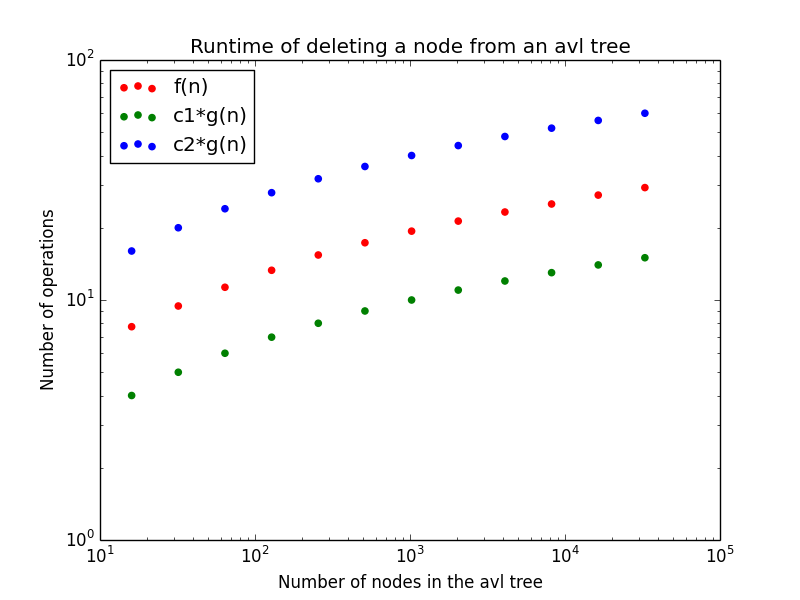
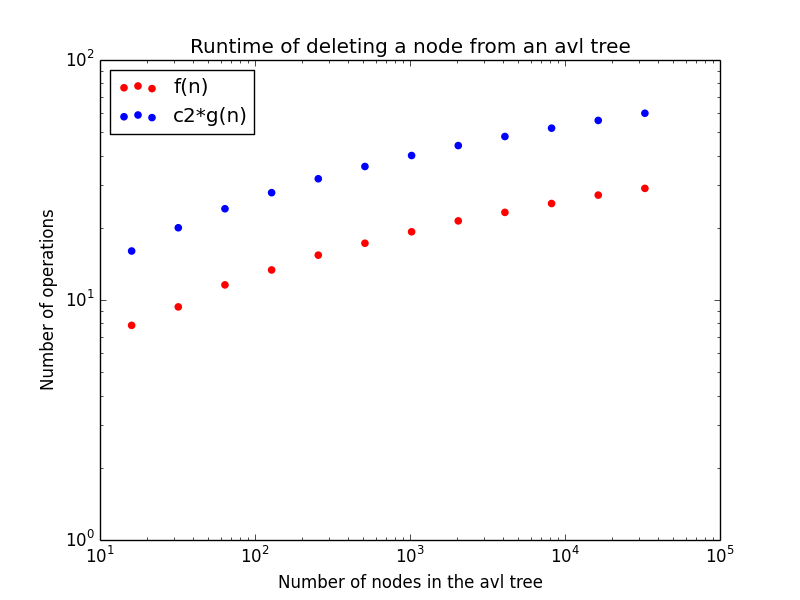
finished rough numerical characterization

diff --git a/project/final_report.tex b/project/final_report.tex
@@ -1,5 +1,7 @@
 \documentclass[12pt]{article}
 
+\usepackage{graphicx}
+
 \title{CSCI 5454 Final Project: AVL Tree}
 \author{Robert Werthman}
 \date{}
@@ -23,8 +25,8 @@ after each operation, like an insertion or deletion, on the tree the heights of
 each node's children differ by at most 1.  The height of a node is the number of
 nodes in the longest path from a root node to it.  For instance, a root node
 would have a height of 0 while its parent node, if the root node was its only child, would
-have a height of 1.  An AVL tree is ``self-balancing'' after each operation on
-the tree the heights and balance of the nodes are readjusted by the tree,
+have a height of 1.  An AVL tree is ``self-balancing'' because after each
+operation on the tree the heights and balance of the nodes are readjusted by the tree,
 itself \cite{wiki:avl}.
 
 \addcontentsline{toc}{subsection}{What problems does it solve?}
@@ -64,12 +66,13 @@ trees could be used instead.
 To show the numerical characterization of the space and time performance of an
 AVL tree, I created a randomized input generator to show the runtime and space
 of the three operations that can be performed on the AVL tree: insertion,
-deletion, and search.  I ran 12 iterations for each of these operations, varying
-the number of nodes $n$ in the trees by a factor of 2.  $n$ takes on all of
-the values in the set $\{2^4,\,2^5,\ldots,2^{16}\}$ for each operation.  The
-keys for each of the nodes in the $n$ node tree were randomly chosen from the
-set $\{0,\,,1,\ldots,2^n$ and then inserted into the tree to create a tree of
-size $n$.\\
+deletion, and search.  I ran 12 iterations for each of these tree operations,
+varying the number of nodes $n$ in the trees by a factor of 2.  I ran each of
+these iterations 50 times each to find the average number of operations given a
+value of $n$.  $n$ takes on all of the values in the set
+$\{2^4,\,2^5,\ldots,2^{16}\}$ for each tree operation.
+The keys for each of the nodes in the $n$ node tree were randomly chosen from 
+the set $\{0,\,,1,\ldots,2^n$ and then inserted into the tree to create a tree of size $n$.\\
 \\
 Once the tree was generated for an iteration, I then chose a random key
 from the set of keys that were already in the tree, and I either searched for
@@ -83,19 +86,82 @@ iteration.\\
 \\
 Once all the iterations were complete for a specific operation, I took the $n$
 for each iteration and the values of the global variables for each iteration and
-graphed them as a function $g(x)$.  The values of $n$ were placed on the
+graphed them as a function $f(x)$.  The values of $n$ were placed on the
 x-axis and the values of the globabl variables were placed on the y-axis.  The graphs use the logarithmic
 scale instead of the linear scale because the logarthmic scale more clearly
 shows what $n$ and the values of the global variables are doing.
-I then graphed two other lines which represent the function $f(x)$, which is the
-function that bounds $g(x)$. $f(x)$ is then
-multiplied by two different constants, either $c_1$ or $c_2$, producing two
-separate lines.
+I then graphed one other line representing the function $g(x)$, which is
+the function that bounds $f(x)$. $g(x)$ is then
+multiplied by a constant, $c_2$, producing a separate line.
 \addcontentsline{toc}{subsection}{Characterization of Runtime}
 \subsection*{Characterization of Runtime}
 
-\addcontentsline{toc}{subsection}{Characterization of Space}
-\subsection*{Characterization of Space}
+\addcontentsline{toc}{subsubsection}{Runtime of Search}
+\subsubsection*{Runtime of Search}
+\begin{figure}[h]
+\caption{Graph of the runtime for searching for a key in different-sized AVL
+trees}
+\includegraphics[width=9cm]{search_runtime.png}
+\centering
+\end{figure}
+\noindent
+The above graph shows the runtime for searching for a key in different-sized
+avl trees.
+The function that bounds the runtime of search is $g(n)=log(n)$ multiplied by
+the constant $c_2=2$.
+As can be seen in the graph the
+runtime of search is $O(log(n))$, with the function $log(n)$ bounding the
+search runtime from above.  This means given an AVL tree of size $n$, it will
+take $O(log(n))$ operations to search for key in the tree.
+
+\addcontentsline{toc}{subsubsection}{Runtime of Insert}
+\subsubsection*{Runtime of Insert}
+\begin{figure}[h]
+\caption{Graph of the runtime for inserting a key into different-sized AVL
+trees}
+\includegraphics[width=9cm]{insert_runtime.png}
+\centering
+\end{figure}
+\noindent
+The above graph shows the runtime for inserting a key into different-sized AVL
+trees.  The function that bounds the runtime of insert is $g(n)=log(n)$
+multiplied by the constant $c_2=4$.  As can be seen in the graph the runtime of
+insert is $O(log(n))$, with the function $log(n)$ bounding the insert runtime
+from above.  This means given an AVL tree of size $n$, it will take $O(log(n))$
+operations to insert a key into the tree.
+
+\addcontentsline{toc}{subsubsection}{Runtime of Delete}
+\subsubsection*{Runtime of Delete}
+\begin{figure}[h]
+\caption{Graph of the runtime for deleting a key from different-sized AVL
+trees}
+\includegraphics[width=9cm]{delete_runtime.png}
+\centering
+\end{figure}
+\noindent
+The above graph shows the runtime of deleting a key from different-sized AVL
+trees.  The function that bounds the runtime of delete is $g(n)=log(n)$
+multiplied by the constant $c_2=4$.  As can be seen in the graph the runtime of
+delete is $O(log(n))$, with the function $log(n)$ bounding the delete runtime
+from above.  This means given an AVL tree of size $n$, it will take $O(log(n))$
+operations to delete a key from the tree.
+
+\addcontentsline{toc}{subsection}{Characterization of Space Usage}
+\subsection*{Characterization of Space Usage}
+\begin{figure}[h]
+\caption{Graph of the space used by different-size AVL trees}
+\includegraphics[width=9cm]{space_used.png}
+\centering
+\end{figure}
+\noindent
+The above graph shows the space used by different-size AVL trees.  The functions
+that bounds the space used is $g(n) = n$ multiplied by the constant $c_2 = 2$. 
+As can be seen in the graph the space that is used by an AVL tree is $O(n)$,
+with the function $n$ bounding the space used from above.  This means that given
+an AVL tree of size $n$, there will be exaclty $n$ nodes in the tree.  With a
+tree of size $n$, if a node is inserted there will be $n+1$ nodes in the tree. 
+With a tree of size $n$, if a node is deleted there will be $n-1$ nodes in the
+tree.
 
 \addcontentsline{toc}{section}{Extensions, Improvements, and Recent Work}
 \section*{Extensions, Improvements, and Recent Work}

diff --git a/project/AVLTree.py b/project/AVLTree.py
@@ -376,18 +376,19 @@ def CreateAVLTree(size):
 def GraphRuntime(x,y):
   global xlabel, ylabel, title, filename, c1, c2
   
-  c1_y = [c1*math.log(i, 2) for i in x]
+#   c1_y = [c1*math.log(i, 2) for i in x]
   c2_y = [c2*math.log(i, 2) for i in x]
   
   a = plt.scatter(x,y,color='r')
-  b = plt.scatter(x,c1_y,color='g')
+#   b = plt.scatter(x,c1_y,color='g')
   c = plt.scatter(x,c2_y,color='b')
   
   plt.yscale('log')
   plt.xscale('log')
   plt.xlabel(xlabel)
   plt.ylabel(ylabel)
-  plt.legend((a,b,c), ('f(n)', 'c1*g(n)', 'c2*g(n)'), loc=2)
+#   plt.legend((a,b,c), ('f(n)', 'c1*g(n)', 'c2*g(n)'), loc=2)
+  plt.legend((a,c), ('f(n)', 'c2*g(n)'), loc=2)
   plt.title(title)
   plt.savefig(filename)
   plt.close()
@@ -395,18 +396,19 @@ def GraphRuntime(x,y):
 def GraphSpace(x,y):
   global xlabel, ylabel, title, filename, c1, c2
   
-  c1_y = [c1*i for i in x]
+#   c1_y = [c1*i for i in x]
   c2_y = [c2*i for i in x]
   
-  a = plt.scatter(x,y,color='r')
-  b = plt.scatter(x,c1_y,color='g')
+  a = plt.scatter(x,y,color='g')
+#   b = plt.scatter(x,c1_y,color='g')
   c = plt.scatter(x,c2_y,color='b')
   
   plt.yscale('log')
   plt.xscale('log')
   plt.xlabel(xlabel)
   plt.ylabel(ylabel)
-  plt.legend((a,b,c), ('f(n)', 'c1*g(n)', 'c2*g(n)'), loc=2)
+#   plt.legend((a,b,c), ('f(n)', 'c1*g(n)', 'c2*g(n)'), loc=2)
+  plt.legend((a,c), ('f(n)', 'c2*g(n)'), loc=2)
   plt.title(title)
   plt.savefig(filename)
   plt.close()
